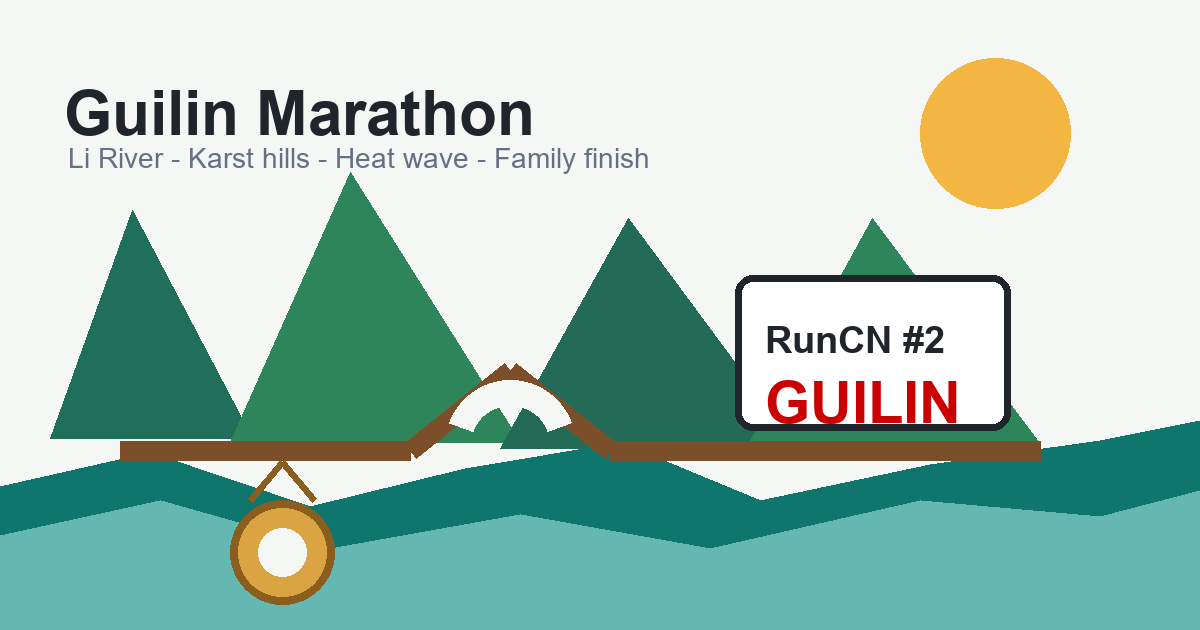
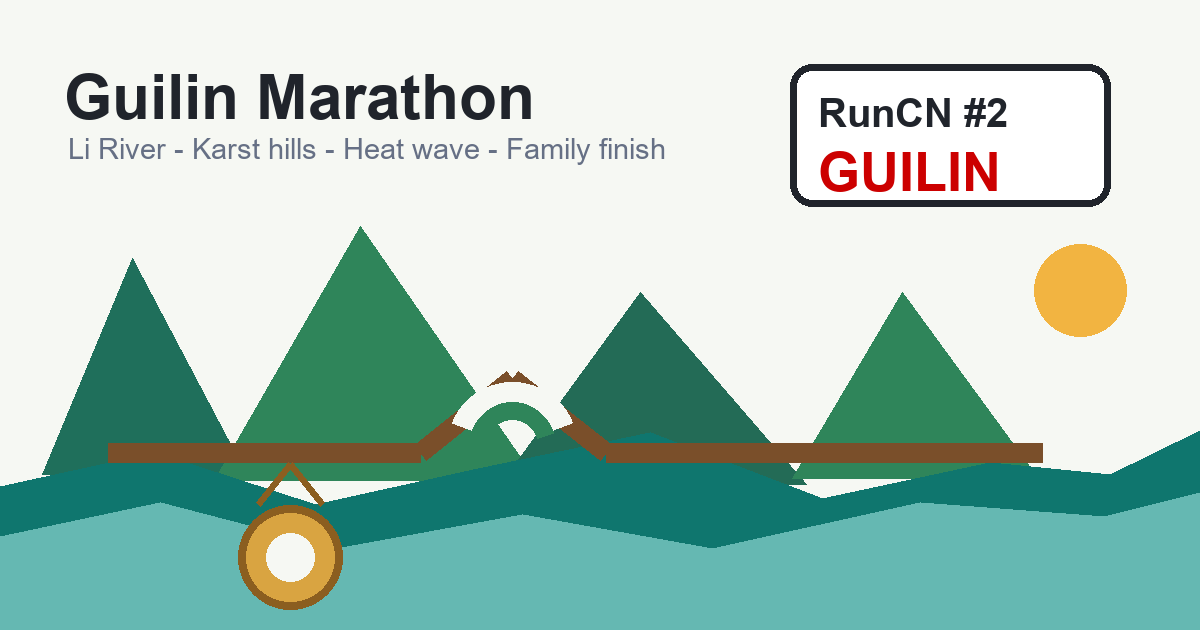
Redesign Run50 city story covers

Changed region(s): [[0.0308, 0.1206, 1.0, 0.9651], [0.6475, 0.0905, 0.925, 0.3317]]

diff --git a/tools/redesign_run50_covers.py b/tools/redesign_run50_covers.py
@@ -1,0 +1,179 @@
+from pathlib import Path
+from PIL import Image, ImageDraw, ImageFont
+
+
+REPO = Path(__file__).resolve().parents[1]
+ASSETS = REPO / "assets"
+
+
+def font(size, bold=False):
+    candidates = [
+        r"C:\Windows\Fonts\arialbd.ttf" if bold else r"C:\Windows\Fonts\arial.ttf",
+        r"C:\Windows\Fonts\segoeuib.ttf" if bold else r"C:\Windows\Fonts\segoeui.ttf",
+    ]
+    for candidate in candidates:
+        try:
+            return ImageFont.truetype(candidate, size)
+        except Exception:
+            pass
+    return ImageFont.load_default()
+
+
+def fit_font(draw, text, max_width, start_size, bold=False, min_size=20):
+    size = start_size
+    while size >= min_size:
+        candidate = font(size, bold)
+        width = draw.textbbox((0, 0), text, font=candidate)[2]
+        if width <= max_width:
+            return candidate
+        size -= 2
+    return font(min_size, bold)
+
+
+def draw_badge(draw, box, stop, city, accent):
+    x1, y1, x2, y2 = box
+    draw.rounded_rectangle(box, radius=22, fill="#ffffff", outline="#20242b", width=7)
+    draw.text((x1 + 28, y1 + 26), stop, font=font(40, True), fill="#20242b")
+    city_font = fit_font(draw, city, x2 - x1 - 56, 54, True, 34)
+    draw.text((x1 + 28, y1 + 78), city, font=city_font, fill=accent)
+
+
+def write_guilin_png():
+    image = Image.new("RGB", (1200, 630), "#f6f8f3")
+    draw = ImageDraw.Draw(image)
+    draw.text((64, 62), "Guilin Marathon", font=font(62, True), fill="#20242b")
+    draw.text((68, 132), "Li River - Karst hills - Heat wave - Family finish", font=font(29), fill="#667085")
+    draw_badge(draw, (790, 64, 1110, 206), "RunCN #2", "GUILIN", "#cc0000")
+    draw.ellipse((1034, 244, 1126, 336), fill="#f2b441")
+
+    # Mountains stay below the text zone.
+    for points, color in [
+        ([(42, 474), (132, 258), (246, 474)], "#1f6f5b"),
+        ([(214, 480), (360, 226), (536, 480)], "#2f855a"),
+        ([(500, 484), (640, 292), (806, 484)], "#236b56"),
+        ([(792, 478), (902, 292), (1038, 478)], "#2f855a"),
+    ]:
+        draw.polygon(points, fill=color)
+
+    draw.polygon(
+        [(0, 486), (155, 452), (315, 504), (478, 468), (650, 432), (822, 498), (990, 462), (1110, 474), (1200, 430), (1200, 630), (0, 630)],
+        fill="#0f766e",
+    )
+    draw.polygon(
+        [(0, 536), (160, 502), (336, 548), (522, 514), (712, 548), (920, 502), (1104, 516), (1200, 492), (1200, 630), (0, 630)],
+        fill="#65b8b2",
+    )
+    draw.line([(108, 452), (420, 452), (512, 378), (606, 452), (1042, 452)], fill="#7a4f2a", width=20)
+    draw.arc((448, 382, 576, 506), 200, 340, fill="#f6f8f3", width=25)
+    draw.arc((468, 402, 556, 496), 200, 340, fill="#2f855a", width=18)
+
+    draw.ellipse((238, 505, 342, 609), fill="#d9a441", outline="#8b5e20", width=8)
+    draw.ellipse((266, 533, 314, 581), fill="#f6f8f3")
+    draw.line([(258, 504), (290, 464), (322, 504)], fill="#8b5e20", width=7)
+    image.save(ASSETS / "og-run50-guilin-icons.png", "PNG")
+
+
+def write_hong_kong_png():
+    image = Image.new("RGB", (1200, 630), "#f7f7f2")
+    draw = ImageDraw.Draw(image)
+    draw.text((64, 58), "Hong Kong Streetathon", font=font(60, True), fill="#20242b")
+    draw.text((68, 126), "Tunnels - Harbour - High bridges - 5 a.m. start", font=font(28), fill="#667085")
+    draw_badge(draw, (760, 64, 1122, 206), "RunCN #3", "HONG KONG", "#cc0000")
+    draw.ellipse((1018, 244, 1110, 336), fill="#f7b733")
+
+    # Skyline, wheel and bridge are anchored below the title zone.
+    buildings = [
+        (70, 286, 154, 488, "#22324d"),
+        (184, 218, 282, 488, "#31496d"),
+        (306, 264, 378, 488, "#22324d"),
+        (402, 196, 512, 488, "#405a7e"),
+        (540, 326, 624, 488, "#22324d"),
+        (652, 252, 746, 488, "#31496d"),
+    ]
+    for x1, y1, x2, y2, color in buildings:
+        draw.rectangle((x1, y1, x2, y2), fill=color)
+        for wx in range(x1 + 16, x2 - 12, 24):
+            for wy in range(y1 + 26, y2 - 18, 34):
+                draw.rectangle((wx, wy, wx + 8, wy + 14), fill="#f7d06a")
+
+    draw.ellipse((560, 214, 704, 358), outline="#cc0000", width=12)
+    draw.line((632, 214, 632, 358), fill="#cc0000", width=8)
+    draw.line((560, 286, 704, 286), fill="#cc0000", width=8)
+    draw.arc((110, 392, 560, 590), 195, 345, fill="#f7f7f2", width=24)
+    draw.arc((132, 420, 538, 574), 200, 340, fill="#22324d", width=10)
+    draw.arc((780, 352, 1080, 588), 190, 350, fill="#c33b2b", width=18)
+    draw.line((780, 486, 1080, 486), fill="#c33b2b", width=18)
+    draw.polygon([(0, 452), (1200, 452), (1200, 630), (0, 630)], fill="#1f6f8b")
+    draw.polygon(
+        [(0, 498), (150, 456), (300, 512), (450, 478), (610, 442), (760, 512), (930, 464), (1090, 476), (1200, 432), (1200, 630), (0, 630)],
+        fill="#3fb5c4",
+    )
+    image.save(ASSETS / "og-run50-hong-kong-icons.png", "PNG")
+
+
+def write_svg_assets():
+    (ASSETS / "thumb-run50-guilin-icons.svg").write_text(
+        '''<svg xmlns="http://www.w3.org/2000/svg" viewBox="0 0 1200 750" role="img" aria-labelledby="title desc">
+<title id="title">Guilin Marathon icon cover</title>
+<desc id="desc">Icon style cover with Guilin title, RunCN badge, karst hills, Li River, bridge, sun and medal.</desc>
+<rect width="1200" height="750" fill="#f6f8f3"/>
+<text x="70" y="104" font-family="Arial, Helvetica, sans-serif" font-size="62" font-weight="900" fill="#20242b">Guilin Marathon</text>
+<text x="74" y="158" font-family="Arial, Helvetica, sans-serif" font-size="29" font-weight="700" fill="#667085">Li River - Karst hills - Heat wave - Family finish</text>
+<rect x="790" y="62" width="320" height="146" rx="22" fill="#ffffff" stroke="#20242b" stroke-width="8"/>
+<text x="820" y="122" font-family="Arial, Helvetica, sans-serif" font-size="41" font-weight="900" fill="#20242b">RunCN #2</text>
+<text x="820" y="178" font-family="Arial, Helvetica, sans-serif" font-size="55" font-weight="900" fill="#cc0000">GUILIN</text>
+<circle cx="1080" cy="290" r="56" fill="#f2b441"/>
+<path d="M48 580 C138 330 248 330 338 580 Z" fill="#1f6f5b"/>
+<path d="M236 586 C382 274 558 274 704 586 Z" fill="#2f855a"/>
+<path d="M582 590 C720 358 886 358 1028 590 Z" fill="#236b56"/>
+<path d="M0 602 C160 560 330 626 500 580 C672 532 826 612 990 572 C1080 552 1140 552 1200 520 L1200 750 L0 750 Z" fill="#0f766e"/>
+<path d="M0 654 C190 602 340 670 530 628 C720 584 868 670 1040 620 C1115 600 1160 616 1200 592 L1200 750 L0 750 Z" fill="#65b8b2"/>
+<path d="M118 548 L430 548 L520 466 L614 548 L1046 548" stroke="#7a4f2a" stroke-width="23" stroke-linecap="round" fill="none"/>
+<path d="M456 550 Q520 480 584 550" stroke="#f6f8f3" stroke-width="30" fill="none"/>
+<circle cx="286" cy="652" r="55" fill="#d9a441" stroke="#8b5e20" stroke-width="8"/>
+<circle cx="286" cy="652" r="25" fill="#f6f8f3"/>
+<path d="M254 626 L286 586 L318 626" stroke="#8b5e20" stroke-width="8" stroke-linecap="round" stroke-linejoin="round" fill="none"/>
+</svg>''',
+        encoding="utf-8",
+        newline="\n",
+    )
+    (ASSETS / "thumb-run50-hong-kong-icons.svg").write_text(
+        '''<svg xmlns="http://www.w3.org/2000/svg" viewBox="0 0 1200 750" role="img" aria-labelledby="title desc">
+<title id="title">Hong Kong Streetathon icon cover</title>
+<desc id="desc">Icon style cover with Hong Kong title, RunCN badge, skyline, harbor, bridge, tunnel and Ferris wheel.</desc>
+<rect width="1200" height="750" fill="#f7f7f2"/>
+<text x="70" y="102" font-family="Arial, Helvetica, sans-serif" font-size="61" font-weight="900" fill="#20242b">Hong Kong Streetathon</text>
+<text x="74" y="156" font-family="Arial, Helvetica, sans-serif" font-size="29" font-weight="700" fill="#667085">Tunnels - Harbour - High bridges - 5 a.m. start</text>
+<rect x="758" y="62" width="364" height="146" rx="22" fill="#ffffff" stroke="#20242b" stroke-width="8"/>
+<text x="790" y="122" font-family="Arial, Helvetica, sans-serif" font-size="41" font-weight="900" fill="#20242b">RunCN #3</text>
+<text x="790" y="178" font-family="Arial, Helvetica, sans-serif" font-size="49" font-weight="900" fill="#cc0000">HONG KONG</text>
+<circle cx="1076" cy="292" r="56" fill="#f7b733"/>
+<rect x="72" y="344" width="84" height="234" fill="#22324d"/>
+<rect x="186" y="260" width="98" height="318" fill="#31496d"/>
+<rect x="308" y="314" width="72" height="264" fill="#22324d"/>
+<rect x="404" y="232" width="112" height="346" fill="#405a7e"/>
+<rect x="540" y="388" width="84" height="190" fill="#22324d"/>
+<rect x="652" y="306" width="96" height="272" fill="#31496d"/>
+<g fill="#f7d06a"><rect x="94" y="374" width="10" height="18"/><rect x="122" y="374" width="10" height="18"/><rect x="214" y="294" width="10" height="18"/><rect x="242" y="294" width="10" height="18"/><rect x="430" y="270" width="10" height="18"/><rect x="462" y="270" width="10" height="18"/><rect x="682" y="340" width="10" height="18"/><rect x="712" y="340" width="10" height="18"/></g>
+<circle cx="632" cy="332" r="74" fill="none" stroke="#cc0000" stroke-width="13"/>
+<path d="M632 258 L632 406 M558 332 L706 332" stroke="#cc0000" stroke-width="9"/>
+<path d="M0 584 L1200 536 L1200 750 L0 750 Z" fill="#1f6f8b"/>
+<path d="M0 638 C150 588 300 662 450 620 C610 574 760 650 930 604 C1040 574 1120 590 1200 552 L1200 750 L0 750 Z" fill="#3fb5c4"/>
+<path d="M110 600 Q332 486 558 600" stroke="#f7f7f2" stroke-width="27" fill="none"/>
+<path d="M138 600 Q334 520 532 600" stroke="#22324d" stroke-width="11" fill="none"/>
+<path d="M780 598 Q930 452 1080 598" stroke="#c33b2b" stroke-width="19" fill="none"/>
+<path d="M780 598 L1080 598" stroke="#c33b2b" stroke-width="19" stroke-linecap="round"/>
+</svg>''',
+        encoding="utf-8",
+        newline="\n",
+    )
+
+
+def main():
+    write_svg_assets()
+    write_guilin_png()
+    write_hong_kong_png()
+
+
+if __name__ == "__main__":
+    main()

diff --git a/tools/build_hong_kong_story.py b/tools/build_hong_kong_story.py
@@ -555,6 +555,8 @@ def main():
     (REPO / "run50" / "stories" / "english" / "hong-kong-marathon.html").write_text(normal_page("en", en_article, normal_css), encoding="utf-8", newline="\n")
     (REPO / "run50" / "facebook" / "hong-kong-marathon.html").write_text(facebook_page(fb_article, fb_css), encoding="utf-8", newline="\n")
     write_cover_assets()
+    from redesign_run50_covers import main as redesign_run50_covers
+    redesign_run50_covers()
     print(f"story_events={len(story)} images={image_count}")
 
 

diff --git a/tools/build_guilin_story.py b/tools/build_guilin_story.py
@@ -525,6 +525,8 @@ def main():
     (REPO / "run50" / "stories" / "english" / "guilin-marathon.html").write_text(normal_page("en", en_article, normal_css), encoding="utf-8", newline="\n")
     (REPO / "run50" / "facebook" / "guilin-marathon.html").write_text(facebook_page(fb_article, fb_css), encoding="utf-8", newline="\n")
     write_cover_assets()
+    from redesign_run50_covers import main as redesign_run50_covers
+    redesign_run50_covers()
     print(f"story_events={len(story)} images={image_count}")
 
 
